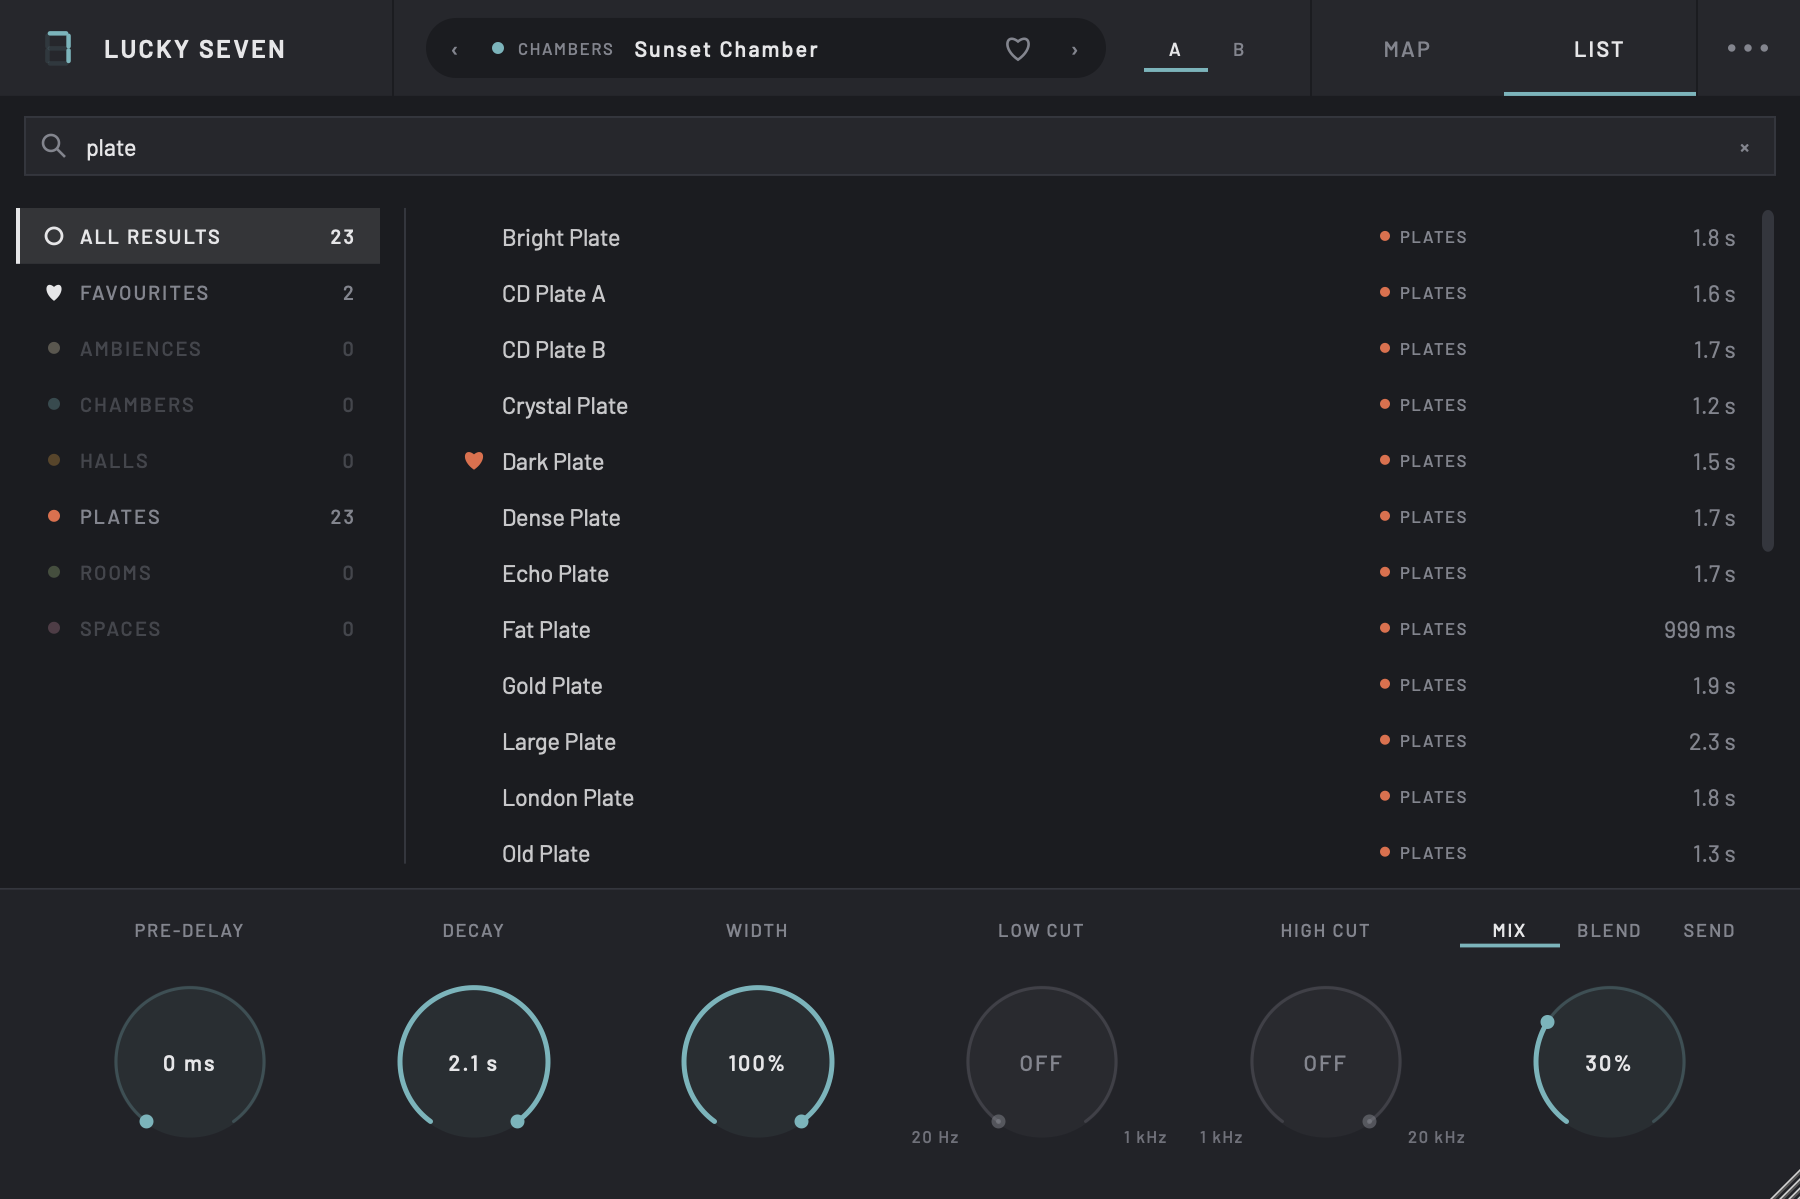
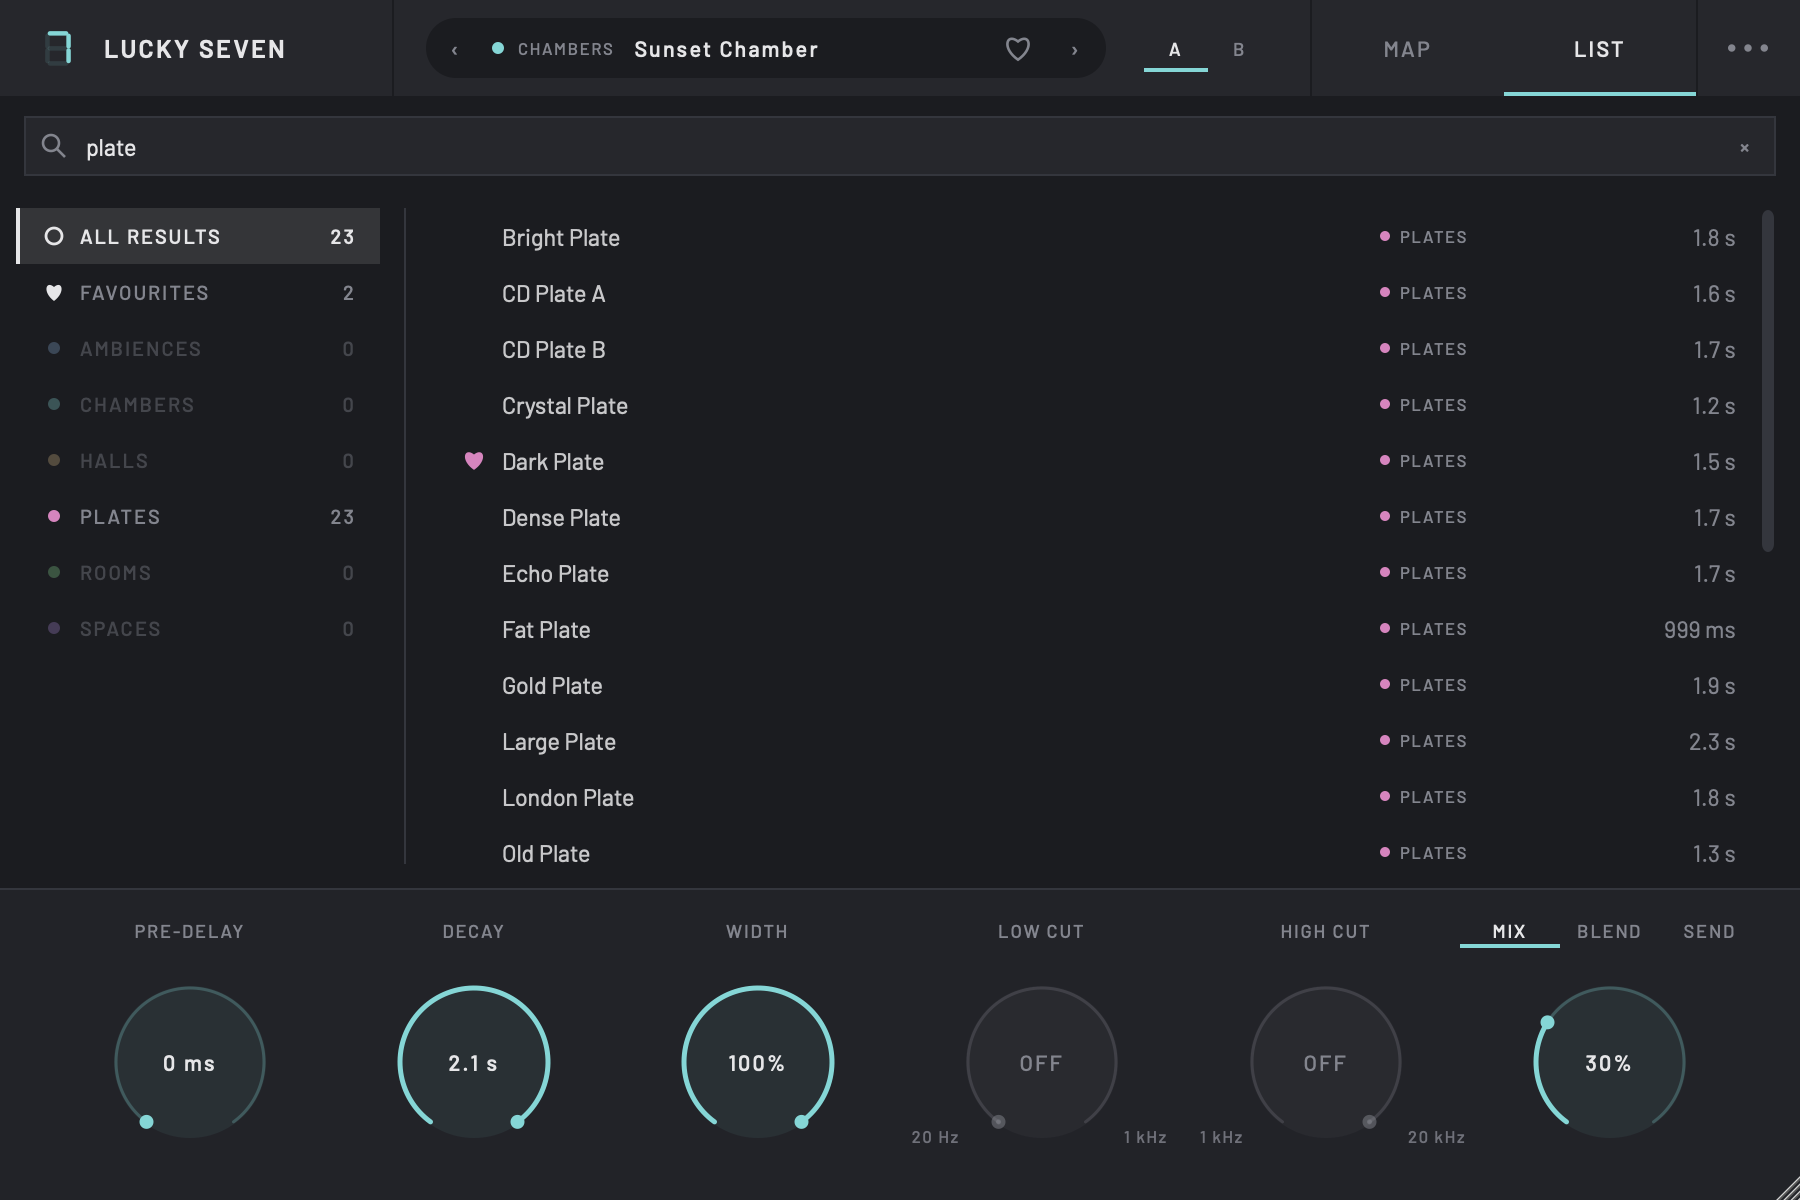
docs(site): rebrand the site with the new palette

diff --git a/docs/index.html b/docs/index.html
@@ -15,7 +15,7 @@
 <link rel="preconnect" href="https://fonts.gstatic.com" crossorigin>
 <link rel="stylesheet" href="https://fonts.googleapis.com/css2?family=Barlow:wght@400;500;600&family=Barlow+Semi+Condensed:wght@500;600&display=swap">
 <style>
-  /* One dark look, matching the plugin: charcoal, Walnut Lifted category colours, Barlow throughout. */
+  /* One dark look, matching the plugin: charcoal, pastel category colours, Barlow throughout. */
   :root {
     color-scheme: dark;
     --bg: #1b1c20;
@@ -24,12 +24,13 @@
     --line: #34363d;
     --text: #e6e6e8;
     --dim: #9a9ca5;
-    --amber: #e3a646;
-    --brick: #d9714f;
-    --sage: #a9c286;
-    --teal: #7cb4bb;
+    --gold: #d6b785;
+    --pink: #d685be;
+    --green: #85d68f;
+    --aqua: #85d6d6;
+    --blue: #85aad6;
+    --violet: #a785d6;
     --cream: #efe0bf;
-    --rose: #c58aa0;
     --display: "Barlow Semi Condensed", "Arial Narrow", system-ui, sans-serif;
     --body: "Barlow", system-ui, -apple-system, sans-serif;
     --mono: ui-monospace, "SF Mono", Menlo, monospace;
@@ -38,8 +39,8 @@
   html { scroll-behavior: smooth; }
   @media (prefers-reduced-motion: reduce) { html { scroll-behavior: auto; } }
   body { margin: 0; background: var(--bg); color: var(--text); font-family: var(--body); font-size: 17px; line-height: 1.6; }
-  a { color: var(--amber); }
-  a:focus-visible, button:focus-visible { outline: 2px solid var(--amber); outline-offset: 3px; border-radius: 4px; }
+  a { color: var(--gold); }
+  a:focus-visible, button:focus-visible { outline: 2px solid var(--gold); outline-offset: 3px; border-radius: 4px; }
   img { max-width: 100%; height: auto; display: block; }
 
   .wrap { max-width: 1120px; margin: 0 auto; padding-left: max(20px, env(safe-area-inset-left, 0px)); padding-right: max(20px, env(safe-area-inset-right, 0px)); }
@@ -60,16 +61,16 @@
   .hero p strong { color: var(--text); font-weight: 500; }
   .actions { display: flex; flex-wrap: wrap; gap: 14px; margin-top: 28px; }
   .button { display: inline-flex; align-items: center; gap: 10px; padding: 13px 22px; border-radius: 6px; font-family: var(--display); font-weight: 600; letter-spacing: 0.1em; text-transform: uppercase; font-size: 15px; text-decoration: none; }
-  .button.primary { background: var(--amber); color: #1b1c20; }
-  .button.primary:hover { background: #ecb65e; }
+  .button.primary { background: var(--gold); color: #1b1c20; }
+  .button.primary:hover { background: #e2c79b; }
   .button.secondary { color: var(--text); border: 1px solid var(--line); }
   .button.secondary:hover { border-color: var(--dim); }
   .hero .specs { margin-top: 20px; font-size: 14px; color: var(--dim); }
 
   .digit { justify-self: center; width: min(100%, 300px); aspect-ratio: 1; }
   .digit svg { width: 100%; height: 100%; overflow: visible; }
-  .digit .lit { stroke: var(--amber); filter: drop-shadow(0 0 10px rgba(227, 166, 70, 0.55)); }
-  .digit .unlit { stroke: var(--amber); opacity: 0.1; }
+  .digit .lit { stroke: var(--gold); filter: drop-shadow(0 0 10px rgba(214, 183, 133, 0.55)); }
+  .digit .unlit { stroke: var(--gold); opacity: 0.1; }
 
   .shot { margin: 8px 0 0; }
   .shot img { border-radius: 12px; border: 1px solid var(--line); box-shadow: 0 30px 80px rgba(0, 0, 0, 0.45); }
@@ -83,14 +84,14 @@
 
   .features { display: grid; grid-template-columns: repeat(3, minmax(0, 1fr)); gap: 30px 34px; }
   .feature h3 { font-family: var(--display); font-weight: 600; font-size: 21px; letter-spacing: 0.03em; margin: 0 0 6px; display: flex; align-items: flex-start; gap: 10px; }
-  .feature h3::before { content: ""; width: 9px; height: 9px; border-radius: 50%; background: var(--dot, var(--amber)); box-shadow: 0 0 0 5px color-mix(in srgb, var(--dot, var(--amber)) 18%, transparent); flex: none; margin-top: calc((1lh - 9px) / 2); }
+  .feature h3::before { content: ""; width: 9px; height: 9px; border-radius: 50%; background: var(--dot, var(--gold)); box-shadow: 0 0 0 5px color-mix(in srgb, var(--dot, var(--gold)) 18%, transparent); flex: none; margin-top: calc((1lh - 9px) / 2); }
   .feature p { margin: 0; color: var(--dim); }
 
   .gallery { display: grid; grid-template-columns: repeat(2, minmax(0, 1fr)); gap: 28px; }
 
   .steps { list-style: none; margin: 0; padding: 0; display: grid; gap: 26px; counter-reset: step; max-width: 780px; }
   .steps > li { counter-increment: step; display: grid; grid-template-columns: 44px minmax(0, 1fr); gap: 16px; }
-  .steps > li::before { content: counter(step); font-family: var(--display); font-weight: 600; font-size: 22px; color: var(--amber); width: 44px; height: 44px; border: 1px solid var(--line); border-radius: 50%; display: grid; place-items: center; }
+  .steps > li::before { content: counter(step); font-family: var(--display); font-weight: 600; font-size: 22px; color: var(--gold); width: 44px; height: 44px; border: 1px solid var(--line); border-radius: 50%; display: grid; place-items: center; }
   .steps h3 { font-family: var(--display); font-weight: 600; font-size: 20px; letter-spacing: 0.03em; margin: 6px 0 4px; }
   .steps p { margin: 0 0 8px; color: var(--dim); }
   code { font-family: var(--mono); font-size: 0.86em; color: var(--cream); background: var(--strip); padding: 2px 6px; border-radius: 4px; }
@@ -179,27 +180,27 @@
       <span class="label">What it does</span>
       <h2>Everything you need, nothing you don't.</h2>
       <div class="features">
-        <div class="feature" style="--dot: var(--amber)">
+        <div class="feature" style="--dot: var(--gold)">
           <h3>Comes with the Bricasti M7</h3>
           <p>134 world-class reverbs at your fingertips: halls, plates, rooms, chambers, ambiences and spaces from the most sought-after reverb unit there is.</p>
         </div>
-        <div class="feature" style="--dot: var(--rose)">
+        <div class="feature" style="--dot: var(--violet)">
           <h3>Bring your own IRs</h3>
           <p>Add as many folders of WAV, AIFF or FLAC impulse responses as you like: your own captures, free packs, whole libraries. Each subfolder becomes a category on the map, left/right file pairs play in true stereo, and every control works on them.</p>
         </div>
-        <div class="feature" style="--dot: var(--sage)">
+        <div class="feature" style="--dot: var(--green)">
           <h3>Every reverb on a map</h3>
           <p>Each impulse response is placed by how long its tail lasts and how bright it sounds, so you find the right sound by ear instead of by name. Search and category filters narrow it down, and there's a list view and favourites too.</p>
         </div>
-        <div class="feature" style="--dot: var(--brick)">
+        <div class="feature" style="--dot: var(--pink)">
           <h3>Shorten any reverb</h3>
           <p>Too long for the track? Turn down Decay. Highs still fade faster than lows, so a shortened hall sounds like the same hall, just tighter.</p>
         </div>
-        <div class="feature" style="--dot: var(--cream)">
+        <div class="feature" style="--dot: var(--blue)">
           <h3>Shape the tone</h3>
           <p>Low and high cut knobs take the mud or the fizz out of the reverb, and Width narrows it all the way to mono so it sits behind its source. Pre-delay up to 250&nbsp;ms, true-stereo processing throughout.</p>
         </div>
-        <div class="feature" style="--dot: var(--teal)">
+        <div class="feature" style="--dot: var(--aqua)">
           <h3>Mix, Blend or Send</h3>
           <p>Mix for a classic wet/dry knob. Blend keeps your dry signal at 0&nbsp;dB and lets you dial reverb in by the decibel. Send goes 100% wet for return tracks.</p>
         </div>
